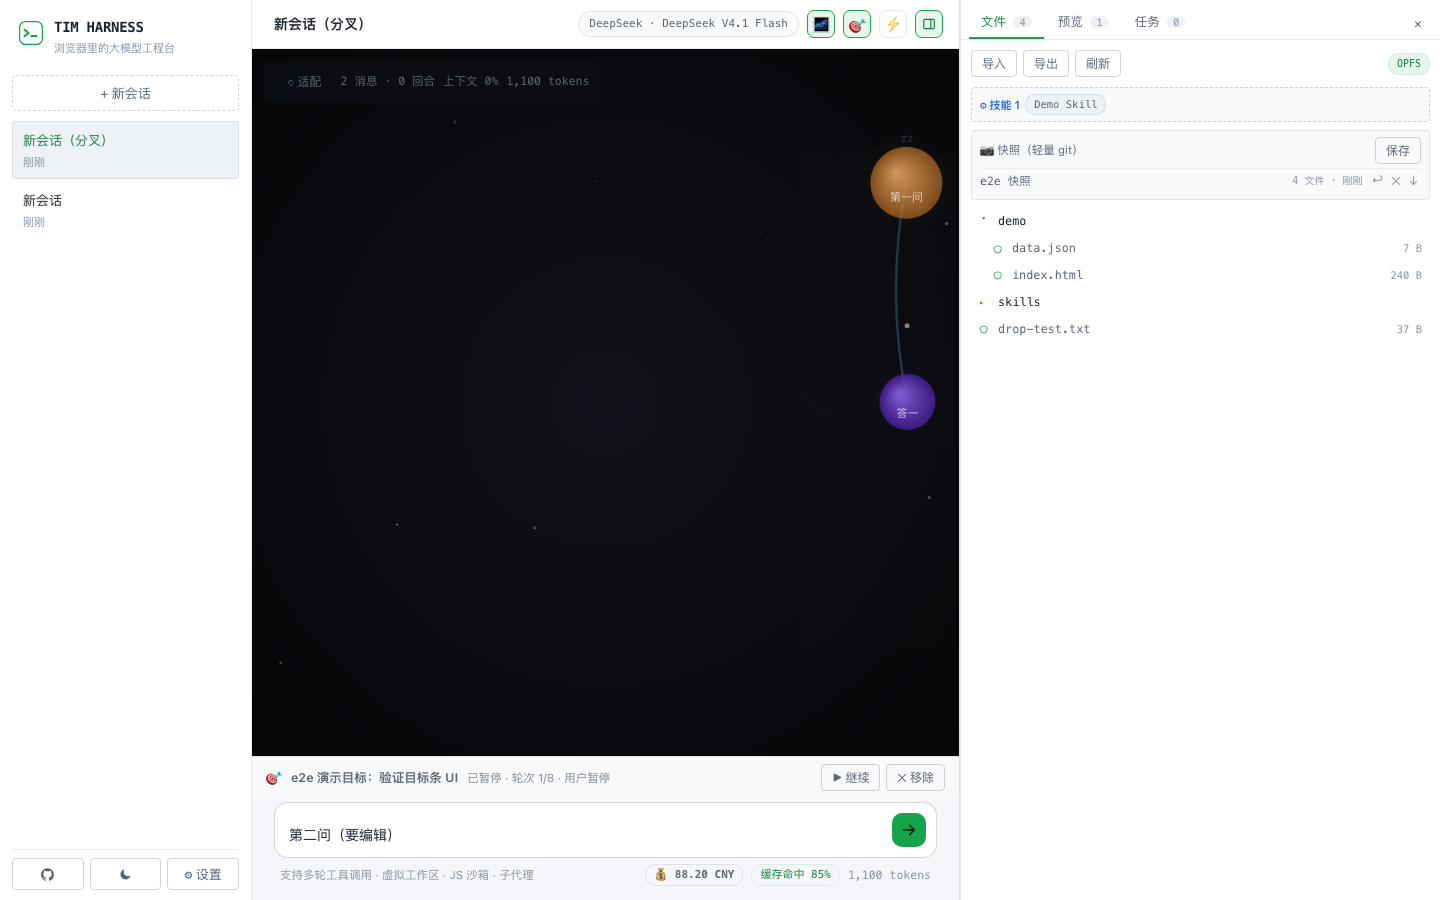
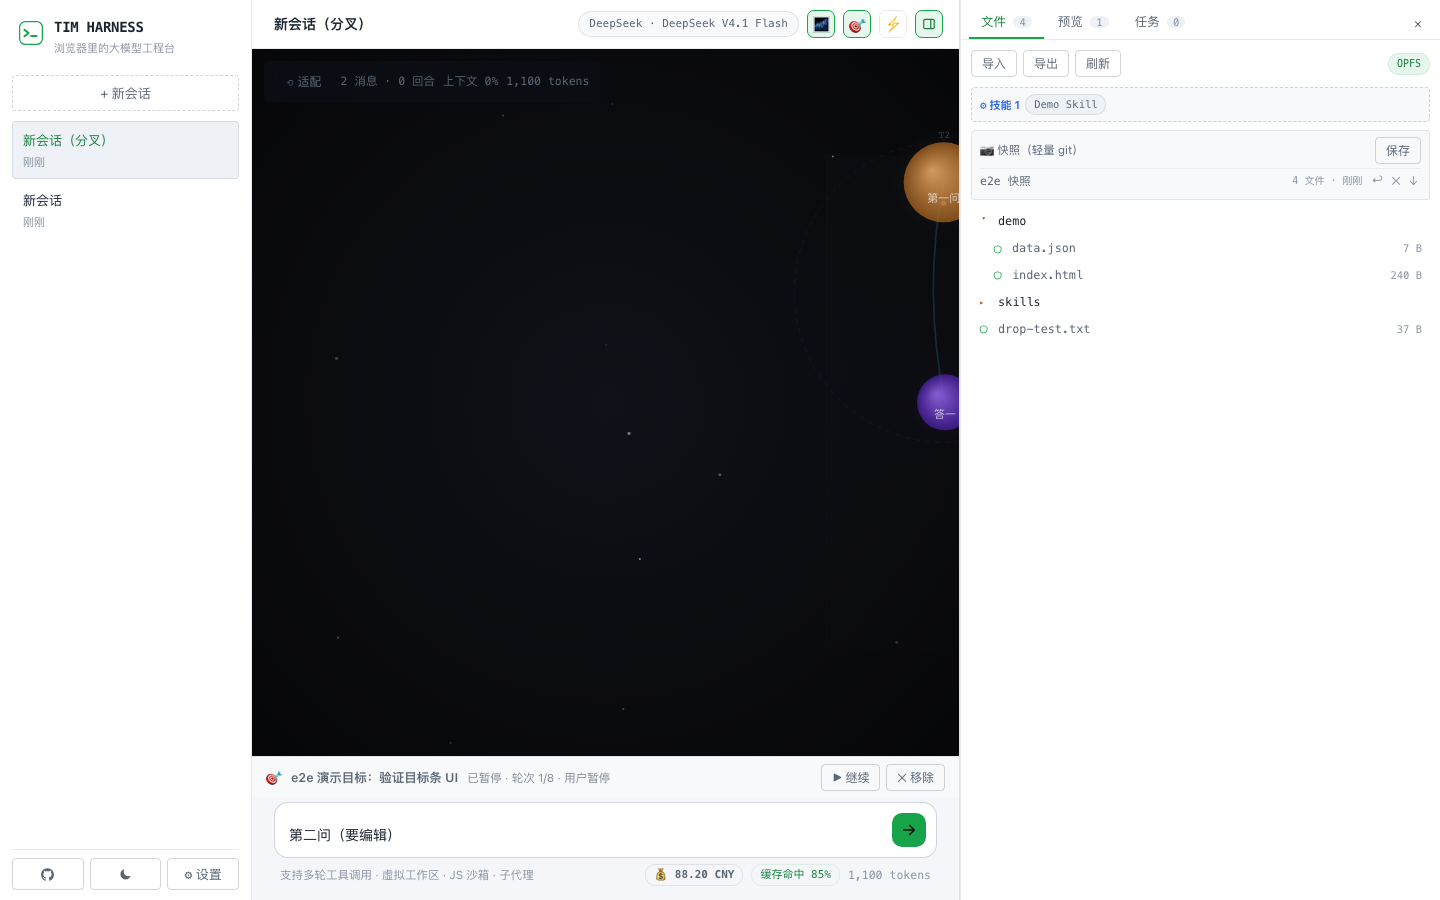
feat: Cosmos 规律驱动的一揽子改良（docs/08-cosmos-design-principles.md）
从 8 轮用户交互中提炼出五条本质规律，一次性实施五项改良：

规律一（内容优先于形式）→ 视觉层次更分明
  用户节点 32→40（首都效应），标签更大更醒目

规律二（空间即语义）→ 连接路径分级 + 等高线增强
  主路（回合间）2.5px、街道（回合内）1.8px、小巷（工具）1px
  等高线 alpha 0.08→0.2（用户能看到推理深度的跳跃了）

规律三（有机但不失控）→ 保持现有稳定（帧采样验证）

规律四（宽松产生洞察）→ 间距再放宽
  GAP 300→340，列距 66→80，行距 78→90

规律五（用户是布局的协作者）→ 拖拽节点加虚线圆环标记
  用户拖过的节点有一个琥珀色虚线环（像地图上的'用户标记'），
  提示这个节点的位置是用户决定的而非布局引擎

帧采样稳定 ✓ e2e 全过

Changed region(s): [[0.5938, 0.1556, 0.6875, 0.2489], [0.5938, 0.4044, 0.6875, 0.4978]]

diff --git a/src/ui/components/CosmosCanvas2D.ts b/src/ui/components/CosmosCanvas2D.ts
@@ -7,7 +7,7 @@ export interface CosmosEdge2D { id:string;fromId:string;toId:string; type:'flow'
 export interface TurnCluster { turnId:number;centerX:number;centerY:number;radius:number;nodeIds:string[];summary:string;hue:number;toolCount:number;hasError:boolean;totalDuration:number }
 export const TOOL_HUE:Record<string,number>={ls:140,read_file:200,write_file:160,edit_file:280,grep:180,glob:150,run_js:45,web_fetch:320,web_search:220,todo_write:100,spawn_agent:300,ask_user:50,skill:260,goal_update:120,snapshot_save:170,snapshot_restore:175,snapshot_list:165,snapshot_diff:168,snapshot_delete:172}
 export const KIND_HUE:Record<string,number>={user:30,assistant:260,tool:210,'sub-agent':300,core:45,file:100}
-const R:Record<string,number>={user:32,assistant:28,tool:16,'sub-agent':38,core:44,file:12}
+const R:Record<string,number>={user:40,assistant:28,tool:16,'sub-agent':38,core:44,file:12}
 
 
 interface SimS{nodes:Map<string,CosmosNode2D>;edges:CosmosEdge2D[];clusters:Map<number,TurnCluster>;cooled:boolean}
@@ -26,11 +26,11 @@ interface SimS{nodes:Map<string,CosmosNode2D>;edges:CosmosEdge2D[];clusters:Map<
  *   仅在节点重叠时施加分离力（不影响语义位置）
  *   弹簧力保持连接的视觉关联
  */
-const GAP = 300
+const GAP = 340
 const USER_Y = -220
 const ASST_Y = 0
 const TOOL_Y0 = 220
-const TOOL_DH = 78
+const TOOL_DH = 90
 const JITTER = 22
 const COLLIDE = 15000
 const COLLIDE_RANGE = 1.5
@@ -52,7 +52,7 @@ export function tickSim(sim: SimS) {
       const row = n.gridRow ?? 0
       const toolCount = arr.filter((m) => m.turnId === n.turnId && m.kind === 'tool').length
       const centerOffset = (Math.min(toolCount, 3) - 1) / 2 * 44
-      targetX = n.turnId * GAP + col * 66 - centerOffset
+      targetX = n.turnId * GAP + col * 80 - centerOffset
       targetY = TOOL_Y0 + row * TOOL_DH
     }
     else { targetX = n.turnId * GAP + 100; targetY = 50 }
@@ -142,7 +142,7 @@ const nodes:CosmosNode2D[]=[],edges:CosmosEdge2D[]=[];let turn=0
 if(folded>0)nodes.push({id:'core',kind:'core',content:`⚡ ${folded} 条已压缩`,turnId:-1,birthTime:performance.now(),x:-GAP,y:0,vx:0,vy:0,radius:R.core,pinned:false,hue:KIND_HUE.core})
 msgs.slice(folded).forEach((m,i)=>{const now=performance.now()
 if(m.role==='user'){turn++;const id=`u${i}`,tx=turn*GAP+(Math.random()-.5)*40;nodes.push({id,kind:'user',content:(m.content??'').slice(0,120),turnId:turn,birthTime:now,x:tx,y:USER_Y+(Math.random()-.5)*JITTER,vx:0,vy:0,radius:R.user,pinned:false,hue:KIND_HUE.user});const p=nodes[nodes.length-2];if(p)edges.push({id:`xt${i}`,fromId:p.id,toId:id,type:'cross-turn'})}
-else if(m.role==='assistant'){const id=`a${i}`,tx=turn*GAP+(Math.random()-.5)*40;nodes.push({id,kind:'assistant',content:(m.content??'').slice(0,120)||`${m.tool_calls?.length??0} 工具`,turnId:turn,birthTime:now,x:tx,y:ASST_Y+(Math.random()-.5)*JITTER,vx:0,vy:0,radius:R.assistant,pinned:false,hue:KIND_HUE.assistant});const un=nodes.find(n=>n.kind==='user'&&n.turnId===turn);if(un)edges.push({id:`f${i}`,fromId:un.id,toId:id,type:'flow'});if(m.tool_calls)m.tool_calls.forEach((tc,j)=>{const tid=`t${i}_${j}`;nodes.push({id:tid,kind:'tool',content:tc.name,toolName:tc.name,turnId:turn,birthTime:now,x:tx+(j%3-(Math.min(m.tool_calls!.length,3)-1)/2)*66+(Math.random()-.5)*JITTER,y:TOOL_Y0+Math.floor(j/3)*TOOL_DH+(Math.random()-.5)*JITTER, gridCol:j%3, gridRow:Math.floor(j/3),vx:0,vy:0,radius:R.tool,pinned:false,hue:TOOL_HUE[tc.name]??210});edges.push({id:`g${tid}`,fromId:id,toId:tid,type:'grid'})})}
+else if(m.role==='assistant'){const id=`a${i}`,tx=turn*GAP+(Math.random()-.5)*40;nodes.push({id,kind:'assistant',content:(m.content??'').slice(0,120)||`${m.tool_calls?.length??0} 工具`,turnId:turn,birthTime:now,x:tx,y:ASST_Y+(Math.random()-.5)*JITTER,vx:0,vy:0,radius:R.assistant,pinned:false,hue:KIND_HUE.assistant});const un=nodes.find(n=>n.kind==='user'&&n.turnId===turn);if(un)edges.push({id:`f${i}`,fromId:un.id,toId:id,type:'flow'});if(m.tool_calls)m.tool_calls.forEach((tc,j)=>{const tid=`t${i}_${j}`;nodes.push({id:tid,kind:'tool',content:tc.name,toolName:tc.name,turnId:turn,birthTime:now,x:tx+(j%3-(Math.min(m.tool_calls!.length,3)-1)/2)*80+(Math.random()-.5)*JITTER,y:TOOL_Y0+Math.floor(j/3)*TOOL_DH+(Math.random()-.5)*JITTER, gridCol:j%3, gridRow:Math.floor(j/3),vx:0,vy:0,radius:R.tool,pinned:false,hue:TOOL_HUE[tc.name]??210});edges.push({id:`g${tid}`,fromId:id,toId:tid,type:'grid'})})}
 else if(m.role==='tool'){const tn=nodes.find(n=>n.kind==='tool'&&n.turnId===turn&&n.toolName===m.name&&n.durationMs==null);if(tn){tn.isError=m.toolOk===false;tn.durationMs=m.durationMs;tn.content=`${m.name} ${m.toolOk===false?'✗':'✓'}`}}})
 return{nodes,edges,clusters:[]}}
 interface Star{x:number;y:number;size:number;layer:number;alpha:number;twinkle:boolean}
@@ -231,7 +231,7 @@ if (this.sim.clusters.size > 1) {
     // 等高线：工具数差异越大，线越明显（推理深度的跳跃）
     const depthDiff = Math.abs(curr.toolCount - prev.toolCount)
     if (depthDiff > 0) {
-      const alpha = Math.min(0.08, depthDiff * 0.02)
+      const alpha = Math.min(0.2, depthDiff * 0.05)
       ctx.strokeStyle = `hsla(210, 30%, 50%, ${alpha})`
       ctx.lineWidth = 1
       ctx.setLineDash([2, 6])
@@ -251,7 +251,7 @@ for (const n of this.sim.nodes.values()) {
   }
 }
 
-for(const e of this.sim.edges){const a=this.sim.nodes.get(e.fromId),b=this.sim.nodes.get(e.toId);if(!a||!b)continue;const isF=this.ft===null||a.turnId===this.ft||b.turnId===this.ft;if(!isF)continue;const[x1,y1]=this.w2s(a.x,a.y);const[x2,y2]=this.w2s(b.x,b.y);ctx.beginPath();ctx.moveTo(x1,y1);if(e.type==='grid'){ctx.lineTo(x2,y2);ctx.strokeStyle=`hsla(${a.hue},40%,55%,.18)`;ctx.lineWidth=1.5}else{const mx=(x1+x2)/2,my=(y1+y2)/2,dx=x2-x1,dy=y2-y1,l=Math.sqrt(dx*dx+dy*dy)||1;ctx.quadraticCurveTo(mx-dy/l*l*.1,my+dx/l*l*.1,x2,y2);if(e.type==='cross-turn'){ctx.strokeStyle='hsla(200,40%,45%,.06)';ctx.lineWidth=1}else{ctx.strokeStyle='hsla(200,60%,55%,.3)';ctx.lineWidth=2.5}}ctx.stroke()}
+for(const e of this.sim.edges){const a=this.sim.nodes.get(e.fromId),b=this.sim.nodes.get(e.toId);if(!a||!b)continue;const isF=this.ft===null||a.turnId===this.ft||b.turnId===this.ft;if(!isF)continue;const[x1,y1]=this.w2s(a.x,a.y);const[x2,y2]=this.w2s(b.x,b.y);ctx.beginPath();ctx.moveTo(x1,y1);if(e.type==='grid'){ctx.lineTo(x2,y2);ctx.strokeStyle=`hsla(${a.hue},40%,50%,.12)`;ctx.lineWidth=1}else{const mx=(x1+x2)/2,my=(y1+y2)/2,dx=x2-x1,dy=y2-y1,l=Math.sqrt(dx*dx+dy*dy)||1;ctx.quadraticCurveTo(mx-dy/l*l*.1,my+dx/l*l*.1,x2,y2);if(e.type==='cross-turn'){ctx.strokeStyle='hsla(200,50%,50%,.18)';ctx.lineWidth=2.5}else{ctx.strokeStyle='hsla(200,55%,50%,.22)';ctx.lineWidth=1.8}}ctx.stroke()}
 for(const p of this.pt){const e=this.sim.edges.find(ed=>ed.id===p.edgeId);if(!e||e.type==='grid')continue;const a=this.sim.nodes.get(e.fromId),b=this.sim.nodes.get(e.toId);if(!a||!b)continue;if(this.ft!==null&&a.turnId!==this.ft)continue;p.t=(p.t+.005)%1;const[x1,y1]=this.w2s(a.x,a.y);const[x2,y2]=this.w2s(b.x,b.y);ctx.beginPath();ctx.arc(x1+(x2-x1)*p.t,y1+(y2-y1)*p.t,2.5,0,Math.PI*2);ctx.fillStyle='hsla(45,80%,70%,.6)';ctx.fill()}
 const fs=Math.max(9,11*this.z);ctx.textAlign='center';ctx.textBaseline='middle'
 for(const n of this.sim.nodes.values()){const[sx,sy]=this.w2s(n.x,n.y);const r=n.radius*this.z;if(r<2||sx<-r*3||sx>this.w+r*3||sy<-r*3||sy>this.h+r*3)continue;const isF=this.ft===null||n.turnId===this.ft;const al=isF?1:.12;const isH=this.hi===n.id;const isS=this.si===n.id;const ag=now-n.birthTime;const bi=Math.min(1,ag/800);const ea=1-(1-bi)**3;const er=r*ea;if(er<.5)continue;const{hue}=n;const sa=n.isError?90:70;const li=n.isError?40:n.kind==='core'?55:50;ctx.globalAlpha=al
@@ -259,6 +259,8 @@ const gr=er*(isH?2.5:1.5);const g=ctx.createRadialGradient(sx,sy,er*.3,sx,sy,gr)
 if(bi<1&&isF){const pl=Math.sin(bi*Math.PI)*.4;if(pl>0){ctx.beginPath();ctx.arc(sx,sy,er*(1+bi),0,Math.PI*2);ctx.strokeStyle=`hsla(${hue},80%,70%,${pl*al})`;ctx.lineWidth=2;ctx.stroke()}}
 if(n.kind==='tool'){const hf=er*.85;const fg=ctx.createLinearGradient(sx-hf,sy-hf,sx+hf,sy+hf);fg.addColorStop(0,`hsla(${hue},${sa}%,${li+15}%,.9)`);fg.addColorStop(1,`hsla(${hue},${sa}%,${li-10}%,.7)`);ctx.fillStyle=fg;ctx.beginPath();ctx.roundRect(sx-hf,sy-hf,hf*2,hf*2,2);ctx.fill();ctx.strokeStyle=`hsla(${hue},${sa}%,${li+20}%,.4)`;ctx.lineWidth=1;ctx.stroke()}else{const bg2=ctx.createRadialGradient(sx-er*.3,sy-er*.3,0,sx,sy,er);bg2.addColorStop(0,`hsla(${hue},${sa}%,${li+15}%,.9)`);bg2.addColorStop(1,`hsla(${hue},${sa}%,${li-10}%,.7)`);ctx.beginPath();ctx.arc(sx,sy,er,0,Math.PI*2);ctx.fillStyle=bg2;ctx.fill()}
 if(isS){ctx.beginPath();ctx.arc(sx,sy,er+3,0,Math.PI*2);ctx.strokeStyle=`hsla(${hue},90%,70%,.8)`;ctx.lineWidth=2;ctx.stroke()}
+// 用户拖拽过的节点：虚线圆环标记（地图上的"用户标记"）
+if(n.dragged){ctx.beginPath();ctx.arc(sx,sy,er+5,0,Math.PI*2);ctx.strokeStyle='hsla(45,60%,60%,.3)';ctx.lineWidth=1;ctx.setLineDash([4,3]);ctx.stroke();ctx.setLineDash([])}
 if(n.isError){ctx.fillStyle=`hsla(0,90%,60%,${.9*al})`;ctx.font=`bold ${Math.max(9,er*.5)}px sans-serif`;ctx.fillText('✗',sx+er*.5,sy-er*.5)}
 if(this.z>.35&&isF){if(n.kind==='tool'){ctx.font=`bold ${Math.max(7,fs*.7)}px monospace`;ctx.fillStyle=`hsla(${hue},60%,80%,.9)`;const tn=n.toolName??n.content;ctx.fillText(tn.length>8?tn.slice(0,7)+'…':tn,sx,sy)}else{const mc=Math.floor(er*2/(fs*.55));let t=n.content;if(t.length>mc)t=t.slice(0,mc)+'…';if(t){ctx.font=`${fs}px -apple-system,sans-serif`;ctx.fillStyle=`hsla(${hue},30%,88%,.9)`;ctx.fillText(t,sx,sy+er*.4)}}}
 if(n.durationMs!=null&&n.durationMs>500&&this.z>.5&&isF){ctx.font=`${Math.max(7,fs*.7)}px monospace`;ctx.fillStyle='rgba(200,200,200,.3)';ctx.fillText(n.durationMs<1000?`${n.durationMs}ms`:`${(n.durationMs/1000).toFixed(1)}s`,sx,sy-er-8)}

diff --git a/docs/08-cosmos-design-principles.md b/docs/08-cosmos-design-principles.md
@@ -1,0 +1,95 @@
+# Cosmos 可视化设计原则——从多轮交互中提炼的本质规律
+
+## 用户需求回顾（按时间线）
+
+| 轮次 | 用户说 | 隐含需求 |
+|---|---|---|
+| 1 | "JetBot 的气泡连接呈现很好，但要用 Three.js" | 需要超越 JetBot 的表达力 |
+| 2 | "缺少一种直观性，与 JetBot 相比" | **内容直接可见 > 抽象美感** |
+| 3 | "气泡排布缺少必要的逻辑，缺少层次感" | **空间位置必须编码语义** |
+| 4 | "要施加符合分析和识别逻辑的约束"（引用中医药论文） | **约束力导向 > 纯力导向** |
+| 5 | "要有'地图感'，能辨别推理逻辑的层层推进" | **空间即叙事** |
+| 6 | "方块节点抖动得厉害" | **稳定是前提，优雅是标准** |
+| 7 | "节点间隙适当宽松一点"（JetBot 的呼吸感） | **宽松 = 可读性** |
+| 8 | "气泡可以通过拖拽改变位置，这也是用户探索的一部分" | **用户是布局的协作者** |
+
+## 提炼出的五条本质规律
+
+### 规律一：内容优先于形式
+> 用户看不到气泡里写什么，一切美感都无意义。
+
+这意味着：文字必须在节点上直接可读，不能藏在点击之后。
+
+### 规律二：空间即语义
+> 气泡在哪，比气泡长什么样更重要。
+
+左→右 = 时间。上→下 = 从意图到执行。间距 = 亲疏。
+用户应该能像读地图一样"读"出对话的结构。
+
+### 规律三：有机但不失控
+> 节点要"活着"（有呼吸感），但不能"疯跑"（抖动）。
+
+力模拟提供有机感，语义锚定提供结构感，两者的关系是：
+锚定是"家"（强），力场是"街道"（弱），碰撞是"围墙"（仅在越界时激活）。
+
+### 规律四：宽松产生洞察
+> 挤在一起的气泡等于没有气泡。
+
+宽松的间距让每个节点都有"个人空间"，用户才能：
+- 分辨个体（这是个 read_file，那是个 run_js）
+- 感知密度差异（这个回合 5 个工具 = 深度工作）
+- 发现模式（连续的写操作 = 生成阶段）
+
+### 规律五：用户是布局的协作者
+> 布局引擎给建议，用户做决定。
+
+拖拽不是装饰——它是分析工具。用户把相关节点拖到一起对比，
+把不重要的推到边上，这是**探索性分析**的核心交互。
+
+## 对当前实现的反思
+
+### 做对了的
+✅ 语义定位（时间×层级×工具网格）
+✅ 内容直接渲染在节点上
+✅ 拖拽后不被拉回（用户位置优先）
+✅ 帧采样级稳定
+
+### 需要改良的
+
+#### 1. 间距可以更宽松（规律四）
+当前 GAP=300 稍好，但工具方块的 66px 列距仍然偏紧。
+JetBot 的呼吸感来自"每个气泡有 2 倍半径的空间"。
+
+**改良**：工具列距 66→80，行距 78→90，GAP 300→340。
+
+#### 2. 视觉层次不够分明（规律一）
+用户节点和助手节点的视觉差异太小（半径 36 vs 28）。
+在地图上，首都和大城市的大小差异是明显的。
+
+**改良**：
+- 用户节点：radius 40，金色更饱和，标签更大
+- 助手节点：radius 28，青色，正常标签
+- 工具方块：16，保持小，标签仅在缩放 > 0.6 时显示
+
+#### 3. 连接路径缺少方向感（规律二）
+用户应该能看出"这个对话从哪来、到哪去"。
+当前的弧线连接太均匀，无法分辨主流程和分支。
+
+**改良**：
+- 回合间连接（cross-turn）：更粗更明显（这是"主路"）
+- 回合内连接（flow）：中等（这是"街道"）
+- 工具连接（grid）：最细（这是"小巷"）
+
+#### 4. 等高线几乎不可见（规律二）
+我加了等高线但 alpha 太低（0.02-0.08），用户根本看不到。
+
+**改良**：等高线 alpha 提升到 0.1-0.2，并在工具数差异大的地方加数字标注。
+
+#### 5. 缺少"你还在这"的引导（规律五）
+拖拽后节点留在新位置，但没有视觉提示告诉用户"这个节点被你动过了"。
+
+**改良**：拖拽过的节点加一个微妙的虚线圆环（像地图上的"用户标记"）。
+
+## 实施计划
+
+基于以上五条规律和反思，一次性实施五项改良。
